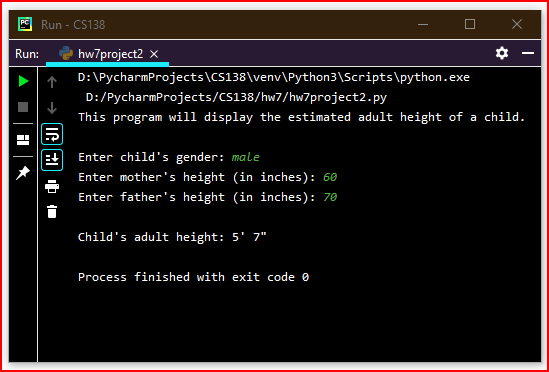
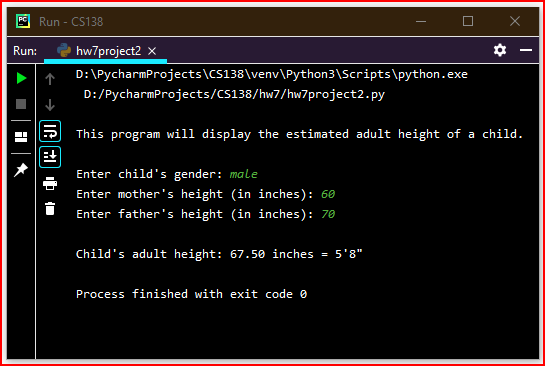
Update hw7project2.py and screenshots corrected output for female height, added invalid entry check, and added new screenshots

Changed region(s): [[0.0, 0.0, 0.9982, 0.9918], [0.1248, 0.571, 0.655, 0.8115], [0.5927, 0.571, 0.6239, 0.6011]]

diff --git a/hw7/hw7project2.py b/hw7/hw7project2.py
@@ -9,7 +9,7 @@
 # Problem Statement:
 #   This program will estimate the adult height of a child
 #   using the formulas below and the height of the parents.
-#   All the heights are in inches.
+#   All input heights are in inches and output in feet and inches.
 #   Formulas:
 #   maleHeight = ((motherHeight * 13 / 12) + fatherHeight) / 2
 #   femaleHeight = ((fatherHeight * 12 / 13) + motherHeight) / 2
@@ -19,7 +19,7 @@
 # 1. Print introduction
 # 2. Prompt user child's gender, mother's height, and father's height
 # 3. Calculate estimated height using matching formula
-# 4. Display height in feet and inches
+# 4. Display height in inches converted to feet and inches
 #
 #
 # import the necessary python libraries
@@ -28,27 +28,34 @@
 
 def main():
     # Print introduction
-    print("This program will display the estimated adult height"
+    print("\nThis program will display the estimated adult height"
           " of a child.\n")
 
     # ---INPUT--- #
     gender = input("Enter child's gender: ")
+    gender = gender[0].lower()
+
+    while gender != 'm' and gender != 'b' and gender != 'f' and gender != 'g':
+        gender = input("Invalid entry for gender."
+                       "\nPlease enter male or female: ")
+        gender = gender[0].lower()
+
     momH = eval(input("Enter mother's height (in inches): "))
     dadH = eval(input("Enter father's height (in inches): "))
 
     # ---PROCESS--- #
-    gender = gender[0].lower()
-    if gender == 'm' or 'b':
+    if gender == 'm' or gender == 'b':
         adultH = ((momH * (13 / 12)) + dadH) / 2
     else:
         adultH = ((dadH * (12 / 13)) + momH) / 2
 
     # calculate height from inches to feet and inches
     feet = adultH / 12
-    inches = adultH % 12
+    inches = round(adultH % 12)
 
     # ---OUTPUT--- #
-    print("\nChild's adult height: {0}' {1}\"".format(int(feet), int(inches)))
+    print("\nChild's adult height: {2:.2f} inches = {0}'{1}\""
+          .format(int(feet), int(inches), adultH))
 
 
 main()

diff --git a/hw7/hw7project1.py b/hw7/hw7project1.py
@@ -9,6 +9,12 @@
 # Problem Statement:
 #   This program will calculate and print the class letter
 #   grade given the percentage from the user.
+#   Grading Scale:
+#       90% - 100%      A
+#       80% - 89.99%    B
+#       70% - 79.99%    C
+#       60% - 69.99%    D
+#       0%  - 59.99%    F
 #
 #
 # Overall Plan:
